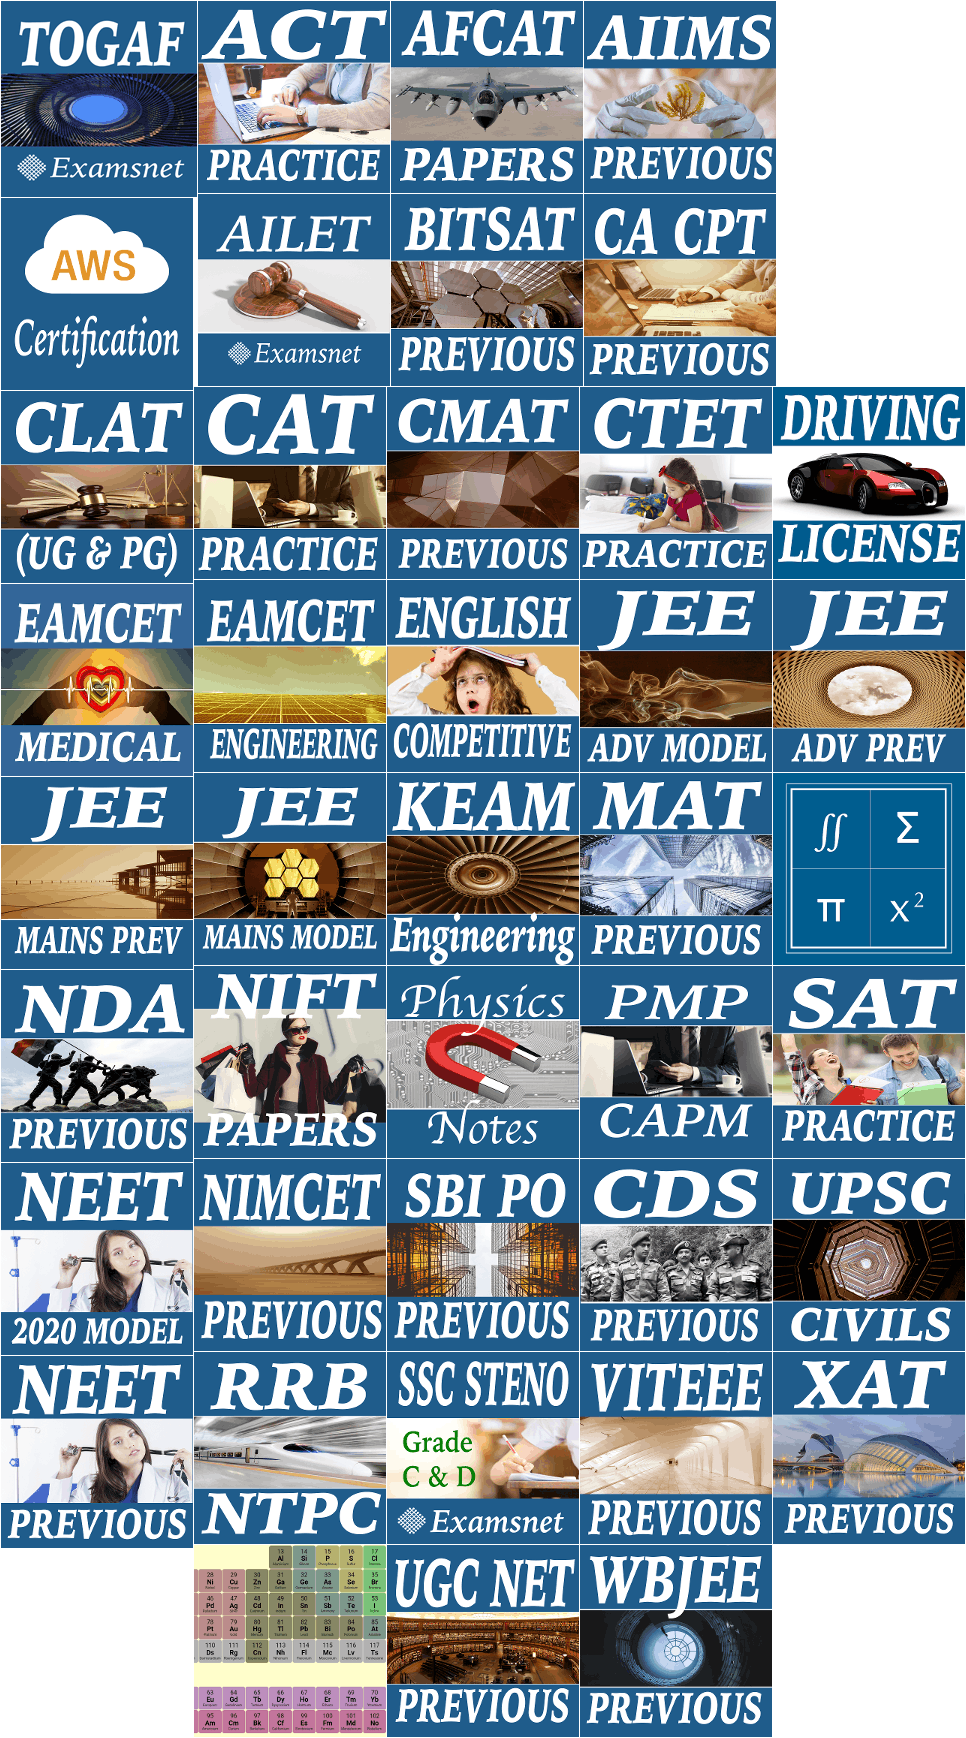
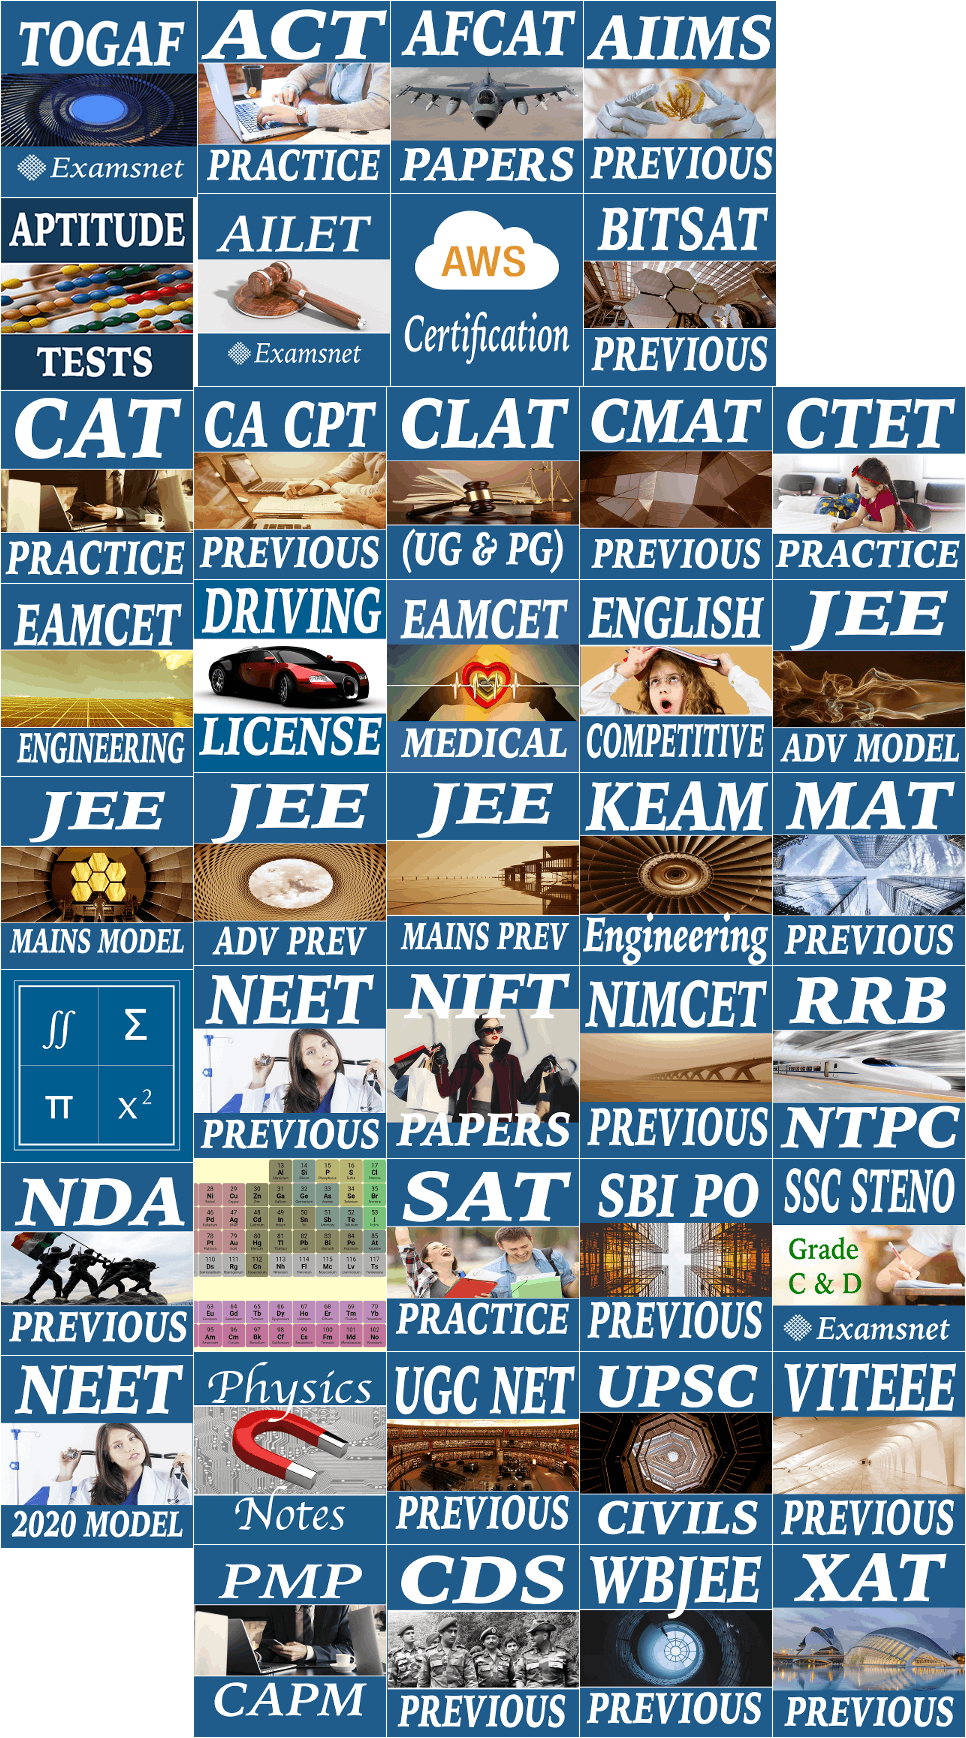
Web Images Added.

diff --git a/img/web/images.css b/img/web/images.css
@@ -19,116 +19,119 @@ div.aiims::after {max-width:192px; width:100%;height:0;padding: 0 0 100% 0;}
 .ailet {max-width:192px; max-height:192px; }
 .ailet::after {content: '\00a0';display: inline-block; width:192px; height:192px; background-position: 25.58139534883721% 12.548512289780078%;background-size: 503.125% 905.2083333333334%;background-image: url(images.png);padding: 0; }
 div.ailet::after {max-width:192px; width:100%;height:0;padding: 0 0 100% 0;}
+.aptitude {max-width:192px; max-height:192px; }
+.aptitude::after {content: '\00a0';display: inline-block; width:192px; height:192px; background-position: 0.12919896640826872% 12.807244501940492%;background-size: 503.125% 905.2083333333334%;background-image: url(images.png);padding: 0; }
+div.aptitude::after {max-width:192px; width:100%;height:0;padding: 0 0 100% 0;}
 .aws {max-width:192px; max-height:192px; }
-.aws::after {content: '\00a0';display: inline-block; width:192px; height:192px; background-position: 0.12919896640826872% 12.807244501940492%;background-size: 503.125% 905.2083333333334%;background-image: url(images.png);padding: 0; }
+.aws::after {content: '\00a0';display: inline-block; width:192px; height:192px; background-position: 50.51679586563308% 12.548512289780078%;background-size: 503.125% 905.2083333333334%;background-image: url(images.png);padding: 0; }
 div.aws::after {max-width:192px; width:100%;height:0;padding: 0 0 100% 0;}
 .bitsat {max-width:192px; max-height:192px; }
-.bitsat::after {content: '\00a0';display: inline-block; width:192px; height:192px; background-position: 50.51679586563308% 12.548512289780078%;background-size: 503.125% 905.2083333333334%;background-image: url(images.png);padding: 0; }
+.bitsat::after {content: '\00a0';display: inline-block; width:192px; height:192px; background-position: 75.45219638242894% 12.548512289780078%;background-size: 503.125% 905.2083333333334%;background-image: url(images.png);padding: 0; }
 div.bitsat::after {max-width:192px; width:100%;height:0;padding: 0 0 100% 0;}
 .ca_cpt {max-width:192px; max-height:192px; }
-.ca_cpt::after {content: '\00a0';display: inline-block; width:192px; height:192px; background-position: 75.45219638242894% 12.548512289780078%;background-size: 503.125% 905.2083333333334%;background-image: url(images.png);padding: 0; }
+.ca_cpt::after {content: '\00a0';display: inline-block; width:192px; height:192px; background-position: 25.064599483204134% 25.032341526520053%;background-size: 503.125% 905.2083333333334%;background-image: url(images.png);padding: 0; }
 div.ca_cpt::after {max-width:192px; width:100%;height:0;padding: 0 0 100% 0;}
 .cat {max-width:192px; max-height:192px; }
-.cat::after {content: '\00a0';display: inline-block; width:192px; height:192px; background-position: 25.064599483204134% 25.032341526520053%;background-size: 503.125% 905.2083333333334%;background-image: url(images.png);padding: 0; }
+.cat::after {content: '\00a0';display: inline-block; width:192px; height:192px; background-position: 0.12919896640826872% 25.291073738680467%;background-size: 503.125% 905.2083333333334%;background-image: url(images.png);padding: 0; }
 div.cat::after {max-width:192px; width:100%;height:0;padding: 0 0 100% 0;}
 .clat {max-width:192px; max-height:192px; }
-.clat::after {content: '\00a0';display: inline-block; width:192px; height:192px; background-position: 0.12919896640826872% 25.291073738680467%;background-size: 503.125% 905.2083333333334%;background-image: url(images.png);padding: 0; }
+.clat::after {content: '\00a0';display: inline-block; width:192px; height:192px; background-position: 50% 25.032341526520053%;background-size: 503.125% 905.2083333333334%;background-image: url(images.png);padding: 0; }
 div.clat::after {max-width:192px; width:100%;height:0;padding: 0 0 100% 0;}
 .cmat {max-width:192px; max-height:192px; }
-.cmat::after {content: '\00a0';display: inline-block; width:192px; height:192px; background-position: 50% 25.032341526520053%;background-size: 503.125% 905.2083333333334%;background-image: url(images.png);padding: 0; }
+.cmat::after {content: '\00a0';display: inline-block; width:192px; height:192px; background-position: 74.93540051679587% 25.032341526520053%;background-size: 503.125% 905.2083333333334%;background-image: url(images.png);padding: 0; }
 div.cmat::after {max-width:192px; width:100%;height:0;padding: 0 0 100% 0;}
 .ctet {max-width:192px; max-height:192px; }
-.ctet::after {content: '\00a0';display: inline-block; width:192px; height:192px; background-position: 74.93540051679587% 25.032341526520053%;background-size: 503.125% 905.2083333333334%;background-image: url(images.png);padding: 0; }
+.ctet::after {content: '\00a0';display: inline-block; width:192px; height:192px; background-position: 99.87080103359173% 25.032341526520053%;background-size: 503.125% 905.2083333333334%;background-image: url(images.png);padding: 0; }
 div.ctet::after {max-width:192px; width:100%;height:0;padding: 0 0 100% 0;}
 .driving {max-width:192px; max-height:192px; }
-.driving::after {content: '\00a0';display: inline-block; width:192px; height:192px; background-position: 99.87080103359173% 25.032341526520053%;background-size: 503.125% 905.2083333333334%;background-image: url(images.png);padding: 0; }
+.driving::after {content: '\00a0';display: inline-block; width:192px; height:192px; background-position: 25.064599483204134% 37.51617076326003%;background-size: 503.125% 905.2083333333334%;background-image: url(images.png);padding: 0; }
 div.driving::after {max-width:192px; width:100%;height:0;padding: 0 0 100% 0;}
 .eamcet_eng {max-width:192px; max-height:192px; }
-.eamcet_eng::after {content: '\00a0';display: inline-block; width:192px; height:192px; background-position: 25.064599483204134% 37.51617076326003%;background-size: 503.125% 905.2083333333334%;background-image: url(images.png);padding: 0; }
+.eamcet_eng::after {content: '\00a0';display: inline-block; width:192px; height:192px; background-position: 0.12919896640826872% 37.77490297542044%;background-size: 503.125% 905.2083333333334%;background-image: url(images.png);padding: 0; }
 div.eamcet_eng::after {max-width:192px; width:100%;height:0;padding: 0 0 100% 0;}
 .eamcet_med {max-width:192px; max-height:192px; }
-.eamcet_med::after {content: '\00a0';display: inline-block; width:192px; height:192px; background-position: 0.12919896640826872% 37.77490297542044%;background-size: 503.125% 905.2083333333334%;background-image: url(images.png);padding: 0; }
+.eamcet_med::after {content: '\00a0';display: inline-block; width:192px; height:192px; background-position: 50% 37.51617076326003%;background-size: 503.125% 905.2083333333334%;background-image: url(images.png);padding: 0; }
 div.eamcet_med::after {max-width:192px; width:100%;height:0;padding: 0 0 100% 0;}
 .english {max-width:192px; max-height:192px; }
-.english::after {content: '\00a0';display: inline-block; width:192px; height:192px; background-position: 50% 37.51617076326003%;background-size: 503.125% 905.2083333333334%;background-image: url(images.png);padding: 0; }
+.english::after {content: '\00a0';display: inline-block; width:192px; height:192px; background-position: 74.93540051679587% 37.51617076326003%;background-size: 503.125% 905.2083333333334%;background-image: url(images.png);padding: 0; }
 div.english::after {max-width:192px; width:100%;height:0;padding: 0 0 100% 0;}
 .jee_adv_model {max-width:192px; max-height:192px; }
-.jee_adv_model::after {content: '\00a0';display: inline-block; width:192px; height:192px; background-position: 74.93540051679587% 37.51617076326003%;background-size: 503.125% 905.2083333333334%;background-image: url(images.png);padding: 0; }
+.jee_adv_model::after {content: '\00a0';display: inline-block; width:192px; height:192px; background-position: 99.87080103359173% 37.51617076326003%;background-size: 503.125% 905.2083333333334%;background-image: url(images.png);padding: 0; }
 div.jee_adv_model::after {max-width:192px; width:100%;height:0;padding: 0 0 100% 0;}
 .jee_adv_prev {max-width:192px; max-height:192px; }
-.jee_adv_prev::after {content: '\00a0';display: inline-block; width:192px; height:192px; background-position: 99.87080103359173% 37.51617076326003%;background-size: 503.125% 905.2083333333334%;background-image: url(images.png);padding: 0; }
+.jee_adv_prev::after {content: '\00a0';display: inline-block; width:192px; height:192px; background-position: 25.064599483204134% 50%;background-size: 503.125% 905.2083333333334%;background-image: url(images.png);padding: 0; }
 div.jee_adv_prev::after {max-width:192px; width:100%;height:0;padding: 0 0 100% 0;}
 .jee_mains_model {max-width:192px; max-height:192px; }
-.jee_mains_model::after {content: '\00a0';display: inline-block; width:192px; height:192px; background-position: 25.064599483204134% 50%;background-size: 503.125% 905.2083333333334%;background-image: url(images.png);padding: 0; }
+.jee_mains_model::after {content: '\00a0';display: inline-block; width:192px; height:192px; background-position: 0.12919896640826872% 50.25873221216042%;background-size: 503.125% 905.2083333333334%;background-image: url(images.png);padding: 0; }
 div.jee_mains_model::after {max-width:192px; width:100%;height:0;padding: 0 0 100% 0;}
 .jee_mains_prev {max-width:192px; max-height:192px; }
-.jee_mains_prev::after {content: '\00a0';display: inline-block; width:192px; height:192px; background-position: 0.12919896640826872% 50.25873221216042%;background-size: 503.125% 905.2083333333334%;background-image: url(images.png);padding: 0; }
+.jee_mains_prev::after {content: '\00a0';display: inline-block; width:192px; height:192px; background-position: 50% 50%;background-size: 503.125% 905.2083333333334%;background-image: url(images.png);padding: 0; }
 div.jee_mains_prev::after {max-width:192px; width:100%;height:0;padding: 0 0 100% 0;}
 .keam {max-width:192px; max-height:192px; }
-.keam::after {content: '\00a0';display: inline-block; width:192px; height:192px; background-position: 50% 50%;background-size: 503.125% 905.2083333333334%;background-image: url(images.png);padding: 0; }
+.keam::after {content: '\00a0';display: inline-block; width:192px; height:192px; background-position: 74.93540051679587% 50%;background-size: 503.125% 905.2083333333334%;background-image: url(images.png);padding: 0; }
 div.keam::after {max-width:192px; width:100%;height:0;padding: 0 0 100% 0;}
 .mat {max-width:192px; max-height:192px; }
-.mat::after {content: '\00a0';display: inline-block; width:192px; height:192px; background-position: 74.93540051679587% 50%;background-size: 503.125% 905.2083333333334%;background-image: url(images.png);padding: 0; }
+.mat::after {content: '\00a0';display: inline-block; width:192px; height:192px; background-position: 99.87080103359173% 50%;background-size: 503.125% 905.2083333333334%;background-image: url(images.png);padding: 0; }
 div.mat::after {max-width:192px; width:100%;height:0;padding: 0 0 100% 0;}
 .math {max-width:192px; max-height:192px; }
-.math::after {content: '\00a0';display: inline-block; width:192px; height:192px; background-position: 99.87080103359173% 50%;background-size: 503.125% 905.2083333333334%;background-image: url(images.png);padding: 0; }
+.math::after {content: '\00a0';display: inline-block; width:192px; height:192px; background-position: 0.12919896640826872% 62.74256144890039%;background-size: 503.125% 905.2083333333334%;background-image: url(images.png);padding: 0; }
 div.math::after {max-width:192px; width:100%;height:0;padding: 0 0 100% 0;}
 .nda_prev {max-width:192px; max-height:192px; }
-.nda_prev::after {content: '\00a0';display: inline-block; width:192px; height:192px; background-position: 0.12919896640826872% 62.74256144890039%;background-size: 503.125% 905.2083333333334%;background-image: url(images.png);padding: 0; }
+.nda_prev::after {content: '\00a0';display: inline-block; width:192px; height:192px; background-position: 0.12919896640826872% 75.22639068564037%;background-size: 503.125% 905.2083333333334%;background-image: url(images.png);padding: 0; }
 div.nda_prev::after {max-width:192px; width:100%;height:0;padding: 0 0 100% 0;}
 .neet_model {max-width:192px; max-height:192px; }
-.neet_model::after {content: '\00a0';display: inline-block; width:192px; height:192px; background-position: 0.12919896640826872% 75.22639068564037%;background-size: 503.125% 905.2083333333334%;background-image: url(images.png);padding: 0; }
+.neet_model::after {content: '\00a0';display: inline-block; width:192px; height:192px; background-position: 0.12919896640826872% 87.71021992238033%;background-size: 503.125% 905.2083333333334%;background-image: url(images.png);padding: 0; }
 div.neet_model::after {max-width:192px; width:100%;height:0;padding: 0 0 100% 0;}
 .neet_prev {max-width:192px; max-height:192px; }
-.neet_prev::after {content: '\00a0';display: inline-block; width:192px; height:192px; background-position: 0.12919896640826872% 87.71021992238033%;background-size: 503.125% 905.2083333333334%;background-image: url(images.png);padding: 0; }
+.neet_prev::after {content: '\00a0';display: inline-block; width:192px; height:192px; background-position: 25.064599483204134% 62.48382923673997%;background-size: 503.125% 905.2083333333334%;background-image: url(images.png);padding: 0; }
 div.neet_prev::after {max-width:192px; width:100%;height:0;padding: 0 0 100% 0;}
 .nift {max-width:192px; max-height:192px; }
-.nift::after {content: '\00a0';display: inline-block; width:192px; height:192px; background-position: 25.064599483204134% 62.48382923673997%;background-size: 503.125% 905.2083333333334%;background-image: url(images.png);padding: 0; }
+.nift::after {content: '\00a0';display: inline-block; width:192px; height:192px; background-position: 50% 62.48382923673997%;background-size: 503.125% 905.2083333333334%;background-image: url(images.png);padding: 0; }
 div.nift::after {max-width:192px; width:100%;height:0;padding: 0 0 100% 0;}
 .nimcet {max-width:192px; max-height:192px; }
-.nimcet::after {content: '\00a0';display: inline-block; width:192px; height:192px; background-position: 25.064599483204134% 74.96765847347994%;background-size: 503.125% 905.2083333333334%;background-image: url(images.png);padding: 0; }
+.nimcet::after {content: '\00a0';display: inline-block; width:192px; height:192px; background-position: 74.93540051679587% 62.48382923673997%;background-size: 503.125% 905.2083333333334%;background-image: url(images.png);padding: 0; }
 div.nimcet::after {max-width:192px; width:100%;height:0;padding: 0 0 100% 0;}
 .ntpc {max-width:192px; max-height:192px; }
-.ntpc::after {content: '\00a0';display: inline-block; width:192px; height:192px; background-position: 25.064599483204134% 87.45148771021992%;background-size: 503.125% 905.2083333333334%;background-image: url(images.png);padding: 0; }
+.ntpc::after {content: '\00a0';display: inline-block; width:192px; height:192px; background-position: 99.87080103359173% 62.48382923673997%;background-size: 503.125% 905.2083333333334%;background-image: url(images.png);padding: 0; }
 div.ntpc::after {max-width:192px; width:100%;height:0;padding: 0 0 100% 0;}
 .periodictable {max-width:192px; max-height:192px; }
-.periodictable::after {content: '\00a0';display: inline-block; width:192px; height:192px; background-position: 25.064599483204134% 99.9353169469599%;background-size: 503.125% 905.2083333333334%;background-image: url(images.png);padding: 0; }
+.periodictable::after {content: '\00a0';display: inline-block; width:192px; height:192px; background-position: 25.064599483204134% 74.96765847347994%;background-size: 503.125% 905.2083333333334%;background-image: url(images.png);padding: 0; }
 div.periodictable::after {max-width:192px; width:100%;height:0;padding: 0 0 100% 0;}
 .physics {max-width:192px; max-height:192px; }
-.physics::after {content: '\00a0';display: inline-block; width:192px; height:192px; background-position: 50% 62.48382923673997%;background-size: 503.125% 905.2083333333334%;background-image: url(images.png);padding: 0; }
+.physics::after {content: '\00a0';display: inline-block; width:192px; height:192px; background-position: 25.064599483204134% 87.45148771021992%;background-size: 503.125% 905.2083333333334%;background-image: url(images.png);padding: 0; }
 div.physics::after {max-width:192px; width:100%;height:0;padding: 0 0 100% 0;}
 .pmp_capm {max-width:192px; max-height:192px; }
-.pmp_capm::after {content: '\00a0';display: inline-block; width:192px; height:192px; background-position: 74.93540051679587% 62.48382923673997%;background-size: 503.125% 905.2083333333334%;background-image: url(images.png);padding: 0; }
+.pmp_capm::after {content: '\00a0';display: inline-block; width:192px; height:192px; background-position: 25.064599483204134% 99.9353169469599%;background-size: 503.125% 905.2083333333334%;background-image: url(images.png);padding: 0; }
 div.pmp_capm::after {max-width:192px; width:100%;height:0;padding: 0 0 100% 0;}
 .sat {max-width:192px; max-height:192px; }
-.sat::after {content: '\00a0';display: inline-block; width:192px; height:192px; background-position: 99.87080103359173% 62.48382923673997%;background-size: 503.125% 905.2083333333334%;background-image: url(images.png);padding: 0; }
+.sat::after {content: '\00a0';display: inline-block; width:192px; height:192px; background-position: 50% 74.96765847347994%;background-size: 503.125% 905.2083333333334%;background-image: url(images.png);padding: 0; }
 div.sat::after {max-width:192px; width:100%;height:0;padding: 0 0 100% 0;}
 .sbipo {max-width:192px; max-height:192px; }
-.sbipo::after {content: '\00a0';display: inline-block; width:192px; height:192px; background-position: 50% 74.96765847347994%;background-size: 503.125% 905.2083333333334%;background-image: url(images.png);padding: 0; }
+.sbipo::after {content: '\00a0';display: inline-block; width:192px; height:192px; background-position: 74.93540051679587% 74.96765847347994%;background-size: 503.125% 905.2083333333334%;background-image: url(images.png);padding: 0; }
 div.sbipo::after {max-width:192px; width:100%;height:0;padding: 0 0 100% 0;}
 .ssc_steno {max-width:192px; max-height:192px; }
-.ssc_steno::after {content: '\00a0';display: inline-block; width:192px; height:192px; background-position: 50% 87.45148771021992%;background-size: 503.125% 905.2083333333334%;background-image: url(images.png);padding: 0; }
+.ssc_steno::after {content: '\00a0';display: inline-block; width:192px; height:192px; background-position: 99.87080103359173% 74.96765847347994%;background-size: 503.125% 905.2083333333334%;background-image: url(images.png);padding: 0; }
 div.ssc_steno::after {max-width:192px; width:100%;height:0;padding: 0 0 100% 0;}
 .togaf {max-width:196px; max-height:196px; }
 .togaf::after {content: '\00a0';display: inline-block; width:196px; height:196px; background-position: 0.12987012987012986% 0.0648508430609598%;background-size: 492.85714285714283% 886.734693877551%;background-image: url(images.png);padding: 0; }
 div.togaf::after {max-width:196px; width:100%;height:0;padding: 0 0 100% 0;}
 .ugcnet {max-width:192px; max-height:192px; }
-.ugcnet::after {content: '\00a0';display: inline-block; width:192px; height:192px; background-position: 50% 99.9353169469599%;background-size: 503.125% 905.2083333333334%;background-image: url(images.png);padding: 0; }
+.ugcnet::after {content: '\00a0';display: inline-block; width:192px; height:192px; background-position: 50% 87.45148771021992%;background-size: 503.125% 905.2083333333334%;background-image: url(images.png);padding: 0; }
 div.ugcnet::after {max-width:192px; width:100%;height:0;padding: 0 0 100% 0;}
 .upsc_cds {max-width:192px; max-height:192px; }
-.upsc_cds::after {content: '\00a0';display: inline-block; width:192px; height:192px; background-position: 74.93540051679587% 74.96765847347994%;background-size: 503.125% 905.2083333333334%;background-image: url(images.png);padding: 0; }
+.upsc_cds::after {content: '\00a0';display: inline-block; width:192px; height:192px; background-position: 50% 99.9353169469599%;background-size: 503.125% 905.2083333333334%;background-image: url(images.png);padding: 0; }
 div.upsc_cds::after {max-width:192px; width:100%;height:0;padding: 0 0 100% 0;}
 .upsc_civils {max-width:192px; max-height:192px; }
-.upsc_civils::after {content: '\00a0';display: inline-block; width:192px; height:192px; background-position: 99.87080103359173% 74.96765847347994%;background-size: 503.125% 905.2083333333334%;background-image: url(images.png);padding: 0; }
+.upsc_civils::after {content: '\00a0';display: inline-block; width:192px; height:192px; background-position: 74.93540051679587% 87.45148771021992%;background-size: 503.125% 905.2083333333334%;background-image: url(images.png);padding: 0; }
 div.upsc_civils::after {max-width:192px; width:100%;height:0;padding: 0 0 100% 0;}
 .viteee {max-width:192px; max-height:192px; }
-.viteee::after {content: '\00a0';display: inline-block; width:192px; height:192px; background-position: 74.93540051679587% 87.45148771021992%;background-size: 503.125% 905.2083333333334%;background-image: url(images.png);padding: 0; }
+.viteee::after {content: '\00a0';display: inline-block; width:192px; height:192px; background-position: 99.87080103359173% 87.45148771021992%;background-size: 503.125% 905.2083333333334%;background-image: url(images.png);padding: 0; }
 div.viteee::after {max-width:192px; width:100%;height:0;padding: 0 0 100% 0;}
 .wbjee {max-width:192px; max-height:192px; }
 .wbjee::after {content: '\00a0';display: inline-block; width:192px; height:192px; background-position: 74.93540051679587% 99.9353169469599%;background-size: 503.125% 905.2083333333334%;background-image: url(images.png);padding: 0; }
 div.wbjee::after {max-width:192px; width:100%;height:0;padding: 0 0 100% 0;}
 .xat_prev {max-width:192px; max-height:192px; }
-.xat_prev::after {content: '\00a0';display: inline-block; width:192px; height:192px; background-position: 99.87080103359173% 87.45148771021992%;background-size: 503.125% 905.2083333333334%;background-image: url(images.png);padding: 0; }
+.xat_prev::after {content: '\00a0';display: inline-block; width:192px; height:192px; background-position: 99.87080103359173% 99.9353169469599%;background-size: 503.125% 905.2083333333334%;background-image: url(images.png);padding: 0; }
 div.xat_prev::after {max-width:192px; width:100%;height:0;padding: 0 0 100% 0;}
 
-/* $TexturePacker:SmartUpdate:508eb9490ae4713a4e13d28c28a2bf41:cfe75dedec2c40352c22ca5ba465f83a:c0d04be69bf6c70f430daa2a84ede08b$ */
+/* $TexturePacker:SmartUpdate:cc7a2063fec00298e7a42f765aa13781:d589aa6979d6759644b8cda31e44b670:c0d04be69bf6c70f430daa2a84ede08b$ */
